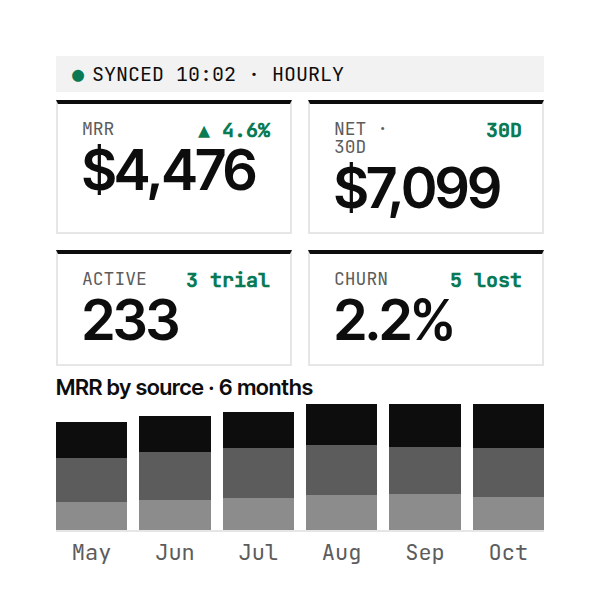
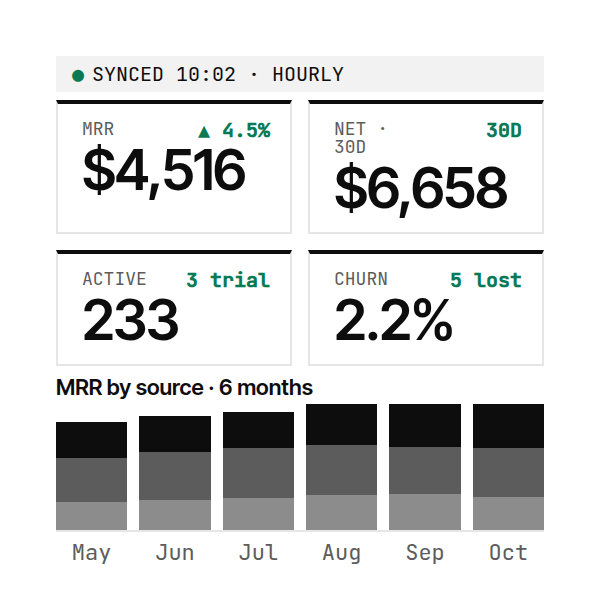
fix(site): unify how-it-works KPIs, pricing 2+1, launch blog hedges
Regenerate how-dashboard from the EX-10256 sample dataset ($4,516 /
▲4.5% / $6,658). Team $490→$49 raises MRR because annual Team MRR was
amortized at ~$40.83, not the cash charge. Center Business at card width
on 768–1023. Hedge live blog refresh/Pro store claims with at launch.

Changed region(s): [[0.6, 0.27, 0.84, 0.36], [0.27, 0.21, 0.45, 0.33]]

diff --git a/app/globals.css b/app/globals.css
@@ -2047,8 +2047,12 @@ table.compare-table thead th:nth-child(2) {
     margin-inline: auto;
   }
 
+  /* 2+1: Business centered at one card width, not full-bleed under Free/Pro. */
   .pricing-grid > .price-card:last-child {
     grid-column: 1 / -1;
+    width: 100%;
+    max-width: calc((100% - var(--space-4)) / 2);
+    justify-self: center;
   }
 }
 

diff --git a/lib/sample-dataset/gen_sample_dataset.py b/lib/sample-dataset/gen_sample_dataset.py
@@ -22,6 +22,7 @@ def new_sub(created):
     global cust
     prod, price = pick(PLANS, PLAN_W); interval = "year" if random.random() < 0.18 else "month"
     # SaaS Team stays monthly: a $490 annual charge reads as a typo next to other $49 Team rows.
+    # MRR rises vs annual Team because annual MRR is plan*10/12 (~$40.83), not the $490 cash charge.
     if prod == "SaaS Team":
         interval = "month"
     cust += 1
